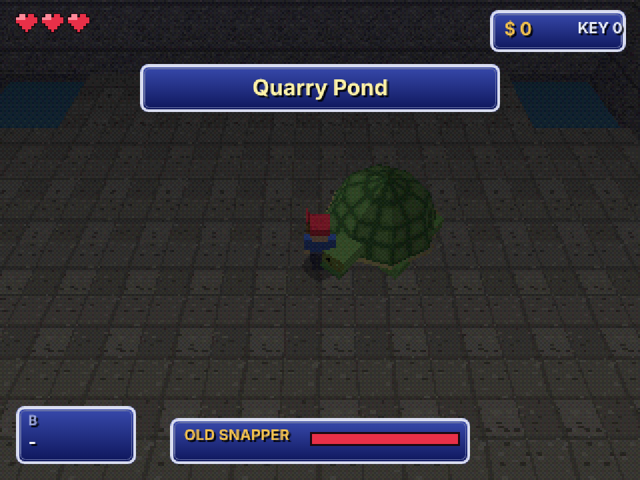
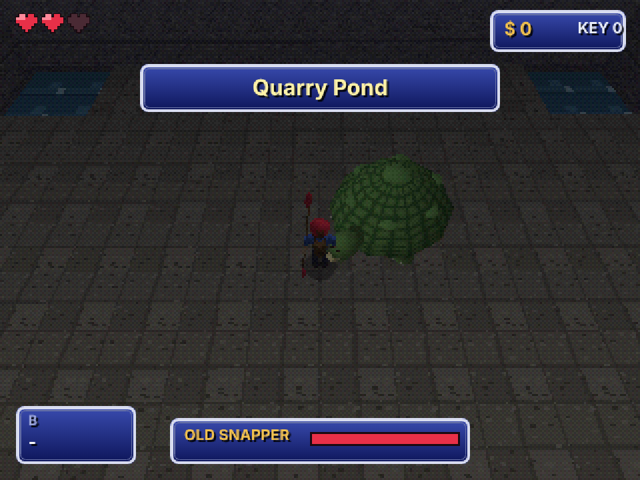
Turn fences to follow their rows, and add detail to people, creatures and props
- Iron fences now run along the line they're on, with rails, pickets and
  finials, so the fences down the sides of Capitol Square line up.
- People dress for their role: glasses and a book for the archivist, a tricorn
  and coat for the reenactor, a pole for the lamplighter, a helmet and life vest
  for the kayaker, an apron, a clipboard, gloves and a trash bag. Everyone gets a
  belt and collar, and Rory a backpack.
- Rounded rats, geese, crabs, bats, ghosts and Old Snapper.
- Leafy and layered trees, ornate gas lamps and slatted benches.

Claude-Session: https://claude.ai/code/session_01Eoe2yTJzU23vy12F62G5WF

diff --git a/js/models.js b/js/models.js
@@ -25,20 +25,49 @@ function humanoid(o){const sk=rgb(o.skin||'#e8b890'),sh=rgb(o.shirt||'#3d63c8'),
     arm.lathe(0,0,0,[[-.32,.085],[-.08,.1],[0,.09]],8,'white',sh,1,1,true);arm.lathe(0,0,0,[[-.62,.06],[-.32,.072]],8,'white',sk);arm.sphere(0,-.67,0,.075,8,4,'white',sk);
     const pd=new Mesh();pd.lathe(0,0,0,[[-.5,.03],[1.35,.03]],6,'wood');pd.sphere(0,1.55,0,.24,8,5,'white',c,1,.5,.2);pd.sphere(0,-.66,0,.15,8,4,'white',c,1,.45,.2);
     for(let i=0;i<pd.pos.length;i+=3){const y=pd.pos[i+1],z=pd.pos[i+2];pd.pos[i+1]=y*.6-z*.8-.67;pd.pos[i+2]=y*.8+z*.6;}arm.add(pd);}
+  const B=P[0].mesh,Hd=P[1].mesh,AL=P[4].mesh,AR=P[5].mesh,dk=c=>[c[0]*.55,c[1]*.55,c[2]*.55],A=o.acc||[];
+  B.lathe(0,0,0,[[1.0,.245],[1.07,.245]],N,'white',o.skirt?dk(pa):[.16,.12,.1],w,.72);B.box(-.05,1.0,.16,.05,1.07,.2,'gold');
+  B.lathe(0,0,0,[[1.58,.15],[1.66,.11]],N,'white',[sh[0]*.85,sh[1]*.85,sh[2]*.85],1,.9);
+  if(A.includes('coat')){const c=rgb(o.coat||'#2a3a6a');B.lathe(0,0,0,[[.45,.32],[.8,.3],[1.05,.27],[1.3,.3],[1.46,.32],[1.56,.28],[1.63,.14]],N,'white',c,w*1.04,.76);
+    for(let i=0;i<4;i++)B.sphere(.0,1.12+i*.12,.235,.025,4,2,'gold');AL.lathe(0,0,0,[[-.4,.1],[0,.11]],8,'white',c,1,1,true);AR.lathe(0,0,0,[[-.4,.1],[0,.11]],8,'white',c,1,1,true);}
+  if(A.includes('vest')){const c=rgb('#f08a30');B.lathe(0,0,0,[[1.05,.3],[1.3,.32],[1.5,.33],[1.58,.24]],N,'white',c,w,.76);B.box(-.04,1.08,.24,.04,1.5,.26,'white',[.2,.2,.24]);}
+  if(A.includes('apron')){B.box(-.2,.62,.2,.2,1.42,.235,'white',[.94,.92,.86]);B.box(-.22,1.0,.18,.22,1.05,.24,'white',[.94,.92,.86]);}
+  if(A.includes('glasses')){const k=[.12,.1,.1];for(const sx of [-1,1]){const x=sx*.1;Hd.box(x-.07,.26,.255,x+.07,.275,.27,'white',k);Hd.box(x-.07,.17,.255,x+.07,.185,.27,'white',k);Hd.box(x-.075,.17,.255,x-.06,.275,.27,'white',k);Hd.box(x+.06,.17,.255,x+.075,.275,.27,'white',k);}Hd.box(-.03,.24,.255,.03,.255,.27,'white',k);}
+  if(A.includes('tricorn')){const c=rgb('#1e1c24');Hd.sphere(0,.4,0,.25,N,4,'white',c,.75,1,1,.5,1);Hd.lathe(0,.42,0,[[0,.42],[.08,.4],[.1,.2]],3,'white',c,1,1,true);Hd.sphere(0,.5,.33,.035,4,2,'gold');}
+  if(A.includes('helmet')){const c=rgb(o.helm||'#f2c14e');Hd.sphere(0,.3,-.01,.3,N,5,'white',c,1.05,1.02,1.08,.48,1);Hd.box(-.2,.33,.25,.2,.37,.34,'white',dk(c));}
+  if(A.includes('book')){const c=rgb('#8a1c2c');AL.box(-.13,-.86,-.04,.13,-.62,.12,{top:'paper',side:'white',south:'white'},c);AL.box(-.12,-.85,-.03,.12,-.63,.11,'paper');}
+  if(A.includes('clipboard')){AL.box(-.12,-.88,.06,.12,-.56,.1,'wood');AL.box(-.1,-.84,.1,.1,-.6,.11,'paper');}
+  if(A.includes('pole')){AR.tube([0,-.67,0],[0,1.9,.35],.03,.025,5,'black');AR.sphere(0,1.95,.36,.06,5,3,'gold');}
+  if(A.includes('gloves')){for(const m of [AL,AR])m.sphere(0,-.67,0,.088,8,4,'white',rgb('#f2c14e'));AR.sphere(0,-.95,.0,.2,8,5,'white',[.18,.2,.26],1.3);AR.box(-.02,-.75,-.02,.02,-.68,.02,'white',[.18,.2,.26]);}
+  if(A.includes('pack')){const c=rgb('#6a4a2a');B.lathe(0,1.12,-.25,[[0,.17],[.12,.2],[.36,.2],[.44,.15]],8,'white',c,1,.6,true);B.box(-.12,1.2,-.38,.12,1.36,-.33,'white',dk(c));for(const sx of [-.14,.14])B.box(sx-.03,1.15,-.22,sx+.03,1.6,.22,'white',dk(c));}
   return P;}
 function enemyModel(t){const P=[];
-  if(t=='rat'){P.push(part(m=>{m.box(-.26,.05,-.42,.26,.42,.36,'white',rgb('#7a7480'));m.box(-.18,.1,.3,.18,.36,.62,{top:'white',side:'white',south:'face'},rgb('#8a8490'));m.box(-.2,.36,.36,-.08,.5,.46,'white',rgb('#e8a0a8'));m.box(.08,.36,.36,.2,.5,.46,'white',rgb('#e8a0a8'));},[0,0,0],'body'),
-    part(m=>m.box(-.04,0,-.9,.04,.06,0,'white',rgb('#d89098')),[0,.15,-.4],'tail'));}
-  else if(t=='bat'){P.push(part(m=>{m.box(-.2,-.2,-.2,.2,.2,.2,{top:'white',side:'white',south:'face'},rgb('#3a3048'));m.box(-.16,.2,-.05,-.04,.36,.05,'white',rgb('#3a3048'));m.box(.04,.2,-.05,.16,.36,.05,'white',rgb('#3a3048'));},[0,0,0],'body'),
-    part(m=>{m.quad([0,0,-.25],[0,0,.25],[-.9,.1,.15],[-.9,.1,-.25],'white',rgb('#4a3a5e'));},[-.18,0,0],'wingL'),part(m=>{m.quad([0,0,.25],[0,0,-.25],[.9,.1,-.25],[.9,.1,.15],'white',rgb('#4a3a5e'));},[.18,0,0],'wingR'));}
-  else if(t=='goose'){P.push(part(m=>{m.box(-.3,.4,-.5,.3,.9,.4,'white',rgb('#f0ece4'));m.box(-.25,.5,-.7,.25,.85,-.5,'white',rgb('#d8d4cc'));m.box(-.06,0,-.05,-.0,.42,.05,'white',rgb('#f08a30'));m.box(.04,0,-.05,.1,.42,.05,'white',rgb('#f08a30'));},[0,0,0],'body'),
-    part(m=>{m.box(-.09,0,-.09,.09,.75,.09,'white',rgb('#2a2a2a'));m.box(-.12,.65,-.12,.12,.9,.16,{top:'white',side:'white',south:'face'},rgb('#2a2a2a'));m.box(-.06,.7,.16,.06,.78,.36,'white',rgb('#f08a30'));m.box(-.1,.4,-.1,.1,.5,.1,'white',rgb('#f4f4f4'));},[0,.8,.3],'neck'));}
-  else if(t=='crab'){const c=rgb('#d84830');P.push(part(m=>{m.box(-.45,.15,-.32,.45,.45,.3,{top:'white',side:'white',south:'face'},c);for(const s of [-1,1])for(let i=0;i<3;i++)m.box(s*.45,0,-.25+i*.22,s*.7,.12,-.17+i*.22,'white',shadeHex('#a83020',1));},[0,0,0],'body'),
-    part(m=>{m.box(-.14,-.1,0,.14,.15,.36,'white',c);m.box(-.16,-.12,.3,.16,.2,.55,'white',shadeHex('#f05a40',1));},[-.42,.3,.25],'clawL'),part(m=>{m.box(-.14,-.1,0,.14,.15,.36,'white',c);m.box(-.16,-.12,.3,.16,.2,.55,'white',shadeHex('#f05a40',1));},[.42,.3,.25],'clawR'));}
-  else if(t=='ghost'){P.push(part(m=>{m.cone(0,0,0,.55,1.4,.35,6,'white',rgb('#c8d8f0'));m.box(-.35,1.3,-.35,.35,1.9,.35,{top:'white',side:'white',south:'face'},rgb('#dce8fa'));},[0,0,0],'body'));}
-  else if(t=='turtle'){P.push(part(m=>{m.cone(0,.4,0,1.5,1.3,1.1,8,'shell');m.cone(0,1.3,0,1.1,1.9,0,8,'shell');m.cone(0,.25,0,1.55,.45,1.55,8,'white',rgb('#c8b878'));
-      for(const [x,z] of [[-1,-.8],[1,-.8],[-1,.8],[1,.8]])m.box(x-.28,0,z-.28,x+.28,.4,z+.28,'white',rgb('#5a8a44'));},[0,0,0],'body'),
-    part(m=>{m.box(-.32,-.25,0,.32,.3,.7,{top:'white',side:'white',south:'face'},rgb('#6e9e52'));m.box(-.3,-.3,.5,.3,-.18,.8,'white',rgb('#3a6a34'));},[0,.6,1.35],'head'));}
+  if(t=='rat'){const c=rgb('#7a7480'),pk=rgb('#e8a0a8');P.push(part(m=>{m.sphere(0,.26,-.05,.26,8,5,'white',c,.85,1,1.55);m.sphere(0,.28,.38,.17,8,4,'white',c,.95,1,1.3);m.sphere(0,.27,.6,.05,5,2,'white',pk);
+      m.quad([-.12,.33,.505],[.12,.33,.505],[.12,.45,.505],[-.12,.45,.505],'eyes');for(const sx of [-1,1]){m.sphere(sx*.13,.44,.32,.08,6,3,'white',pk,1,.4,1);m.tube([sx*.1,.0,.25],[sx*.13,.18,.2],.04,.05,4,'white',pk);m.tube([sx*.12,0,-.3],[sx*.15,.18,-.25],.04,.05,4,'white',pk);}
+      for(const sx of [-1,1])for(let k=0;k<3;k++)m.box(sx*.05+sx*k*.02-.004,.28-k*.015,.6,sx*.05+sx*k*.02+sx*.16,.284-k*.015,.604,'white',[.9,.9,.9]);},[0,0,0],'body'),
+    part(m=>{m.tube([0,0,0],[0,.05,-.45],.035,.025,4,'white',pk);m.tube([0,.05,-.45],[0,.18,-.8],.025,.012,4,'white',pk);},[0,.2,-.42],'tail'));}
+  else if(t=='bat'){const c=rgb('#3a3048'),w=rgb('#4a3a5e');P.push(part(m=>{m.sphere(0,0,0,.2,8,5,'white',c,1.15);m.sphere(0,.24,.03,.15,8,4,'white',c);m.quad([-.11,.18,.16],[.11,.18,.16],[.11,.32,.16],[-.11,.32,.16],'eyes');
+      for(const sx of [-1,1])m.cone(sx*.09,.34,.02,.06,.5,0,4,'white',c);},[0,0,0],'body'),
+    part(m=>{m.quad([0,0,-.15],[0,0,.15],[-.5,.15,.2],[-.5,.15,-.2],'white',w);m.quad([-.5,.15,-.2],[-.5,.15,.2],[-1,.0,.1],[-1,0,-.25],'white',w);m.tube([0,0,.12],[-.5,.15,.2],.02,.02,3,'white',c);m.tube([-.5,.15,.2],[-1,0,.1],.02,.01,3,'white',c);},[-.15,0,0],'wingL'),
+    part(m=>{m.quad([0,0,.15],[0,0,-.15],[.5,.15,-.2],[.5,.15,.2],'white',w);m.quad([.5,.15,.2],[.5,.15,-.2],[1,.0,-.25],[1,0,.1],'white',w);m.tube([0,0,.12],[.5,.15,.2],.02,.02,3,'white',c);m.tube([.5,.15,.2],[1,0,.1],.02,.01,3,'white',c);},[.15,0,0],'wingR'));}
+  else if(t=='goose'){const wc=rgb('#f0ece4'),or=rgb('#f08a30'),bk=rgb('#2a2a2a');P.push(part(m=>{m.sphere(0,.68,-.05,.36,9,6,'white',wc,.72,.95,1.45);m.cone(0,.62,-.55,.18,.9,.02,6,'white',wc);
+      for(const sx of [-1,1]){m.sphere(sx*.3,.72,-.1,.2,7,4,'white',[.86,.84,.78],.55,.5,1.4);m.tube([sx*.1,.0,.0],[sx*.1,.45,-.02],.035,.04,5,'white',or);m.box(sx*.1-.08,0,-.02,sx*.1+.08,.04,.16,'white',or);}},[0,0,0],'body'),
+    part(m=>{m.tube([0,0,0],[0,.75,.12],.1,.08,7,'white',bk);m.sphere(0,.82,.15,.13,8,4,'white',bk,1,1,1.15);m.box(-.1,.66,.14,.1,.74,.22,'white',[.95,.95,.95]);m.cone(0,.8,.28,.06,.8,0,5,'white',or);
+      m.tube([0,.79,.25],[0,.77,.46],.055,.02,5,'white',or);m.quad([-.11,.82,.28],[.11,.82,.28],[.11,.92,.28],[-.11,.92,.28],'eyes');},[0,.72,.32],'neck'));}
+  else if(t=='crab'){const c=rgb('#d84830'),d=rgb('#a83020');P.push(part(m=>{m.sphere(0,.3,0,.42,10,5,'white',c,.55,1.15,.85);m.sphere(0,.25,0,.4,10,3,'white',d,.3,1.15,.85,0,.5);
+      for(const sx of [-1,1]){m.tube([sx*.14,.44,.26],[sx*.16,.6,.3],.025,.025,4,'white',d);m.sphere(sx*.16,.63,.31,.05,5,3,'white',[.1,.1,.1]);
+        for(let i=0;i<3;i++){const z=-.2+i*.18;m.tube([sx*.4,.28,z],[sx*.7,.36,z+.04],.04,.035,4,'white',d);m.tube([sx*.7,.36,z+.04],[sx*.85,0,z+.08],.035,.02,4,'white',d);}}},[0,0,0],'body'),
+    part(m=>{m.tube([0,0,0],[-.05,.05,.3],.06,.07,6,'white',c);m.sphere(-.05,.07,.45,.13,7,4,'white',rgb('#f05a40'),.8,.9,1.3);m.cone(-.05,.07,.55,.07,.12,0,4,'white',d);},[-.4,.3,.2],'clawL'),
+    part(m=>{m.tube([0,0,0],[.05,.05,.3],.06,.07,6,'white',c);m.sphere(.05,.07,.45,.13,7,4,'white',rgb('#f05a40'),.8,.9,1.3);m.cone(.05,.07,.55,.07,.12,0,4,'white',d);},[.4,.3,.2],'clawR'));}
+  else if(t=='ghost'){const c=rgb('#c8d8f0');P.push(part(m=>{m.lathe(0,0,0,[[0,.62],[.15,.5],[.6,.42],[1.1,.4],[1.45,.36],[1.7,.25],[1.82,0]],10,'white',c);
+      for(let i=0;i<6;i++){const a=i/6*6.283;m.cone(Math.cos(a)*.5,0,Math.sin(a)*.5,.14,-.25,0,4,'white',c);}m.quad([-.2,1.25,.38],[.2,1.25,.38],[.2,1.55,.38],[-.2,1.55,.38],'eyes');
+      for(const sx of [-1,1])m.tube([sx*.38,1.2,0],[sx*.62,.9,.15],.09,.06,6,'white',c,true);},[0,0,0],'body'));}
+  else if(t=='turtle'){const sh=rgb('#3a6a34'),sk=rgb('#6e9e52');P.push(part(m=>{m.lathe(0,.35,0,[[0,1.55],[.15,1.6],[.35,1.5],[.7,1.25],[1.05,.85],[1.3,.4],[1.38,0]],10,'shell',null,1,1.1);
+      m.lathe(0,.2,0,[[0,1.45],[.18,1.58]],10,'white',rgb('#c8b878'),1,1.1);for(let i=0;i<6;i++){const a=i/6*6.283;m.sphere(Math.cos(a)*1.0,1.1,Math.sin(a)*1.1,.32,6,3,'white',[.45,.68,.36],.35);}m.sphere(0,1.62,0,.4,6,3,'white',[.45,.68,.36],.4);
+      for(const [x,z] of [[-1.05,-.8],[1.05,-.8],[-1.05,.8],[1.05,.8]]){m.tube([x*.8,.4,z*.8],[x,0,z],.32,.28,7,'white',sk,true);for(let k=-1;k<=1;k++)m.cone(x+k*.12,.05,z+.25*Math.sign(z),.06,.05,0,3,'white',[.9,.9,.8]);}
+      m.cone(0,.4,-1.5,.2,.45,0,6,'white',sk);},[0,0,0],'body'),
+    part(m=>{m.tube([0,0,-.1],[0,.1,.45],.3,.28,8,'white',sk);m.sphere(0,.15,.6,.36,9,5,'white',sk,.85,1,1.2);m.quad([-.26,.22,.98],[.26,.22,.98],[.26,.48,.98],[-.26,.48,.98],'eyes');
+      m.cone(0,.05,.98,.18,0,.0,5,'white',[.9,.85,.6]);m.box(-.25,-.02,.82,.25,.02,1.0,'white',[.3,.4,.25]);},[0,.6,1.35],'head'));}
   return P;}
 function propModel(t){const P=[];
   if(t=='coin')P.push(part(m=>{m.cone(0,-.25,0,.3,.25,.3,8,'gold');m.disc(0,.25,0,.3,8,'gold');m.disc(0,-.25,0,.3,8,'gold',null,true);},[0,0,0]));

diff --git a/js/level.js b/js/level.js
@@ -54,14 +54,21 @@ function buildMesh(lv){
         M.floor(X0,Z0,X1,Z1,ht,'roof');M.box(X0,ht,Z0,X1,ht+.25,Z1,{top:'stone',side:'stone'},null,{bottom:1});break;}
       case'X':case'D':{if(lmAt(lv,x,y))break;const ht=bh(x,y);M.box(X0,0,Z0,X1,ht,Z1,{top:'roof',side:room?'qwall':'stone'},null,{bottom:1},true);break;}
       case'W':{const wh=y==lv.h-1?.8:4;M.box(X0,0,Z0,X1,wh,Z1,{top:wh<1?'qwall':'black',side:'qwall'},null,{bottom:1},wh>1);break;}
-      case'T':{const r=.95+(h%5)*.08,t=h%7==0;M.box(cx-.18,0,cz-.18,cx+.18,1.3,cz+.18,'bark');
-        if(t){M.cone(cx,1,cz,.2,2.2,r*1.2,6,'leaves2',null,h);M.cone(cx,2.2,cz,r*1.2,3.6,.1,6,'leaves2',null,h);}
-        else{M.cone(cx,.9,cz,r*1.15,2.6,.15,6,'leaves',null,h);M.cone(cx,2.1,cz,r*.85,3.9,0,6,'leaves',null,h+1);}break;}
+      case'T':{const r=.95+(h%5)*.08,kind=h%5;
+        if(kind<2){M.tube([cx,0,cz],[cx,1.4,cz],.2,.15,6,'bark');M.cone(cx,.9,cz,r*1.25,2.0,r*.5,7,'leaves',null,h);M.cone(cx,1.7,cz,r*1.05,2.9,r*.3,7,'leaves',null,h+1);M.cone(cx,2.6,cz,r*.75,4.1,0,7,'leaves',null,h+2);}
+        else{M.tube([cx,0,cz],[cx,1.9,cz],.2,.13,6,'bark');M.tube([cx,1.3,cz],[cx+.5,2.2,cz+.2],.09,.05,5,'bark');M.tube([cx,1.4,cz],[cx-.45,2.3,cz-.25],.09,.05,5,'bark');
+          const lc=kind==4?'leaves2':'leaves';M.sphere(cx,2.5,cz,r*.95,8,5,lc,null,.85);M.sphere(cx+.55,2.25,cz+.2,r*.62,7,4,lc,null,.85);M.sphere(cx-.5,2.35,cz-.25,r*.66,7,4,lc,null,.85);M.sphere(cx+.1,3.05,cz-.1,r*.55,7,4,lc,null,.9);}break;}
       case'r':{const s=.55+(h%4)*.12;M.cone(cx,0,cz,s*1.4,s*.9,s*.7,5,'rock',null,h);M.cone(cx,s*.9,cz,s*.7,s*1.2,0,5,'rock',null,h);break;}
       case'R':M.box(X0,0,Z0,X1,1,Z1,{top:'stonewall',side:'stone'},null,{bottom:1});break;
-      case'f':M.box(X0,0,Z0+.9,X1,1.3,Z0+1.1,{top:'black',side:'fence'},null,{bottom:1,top:1});M.box(cx-.07,0,cz-.07,cx+.07,1.5,cz+.07,'black');break;
-      case'l':M.box(cx-.08,0,cz-.08,cx+.08,2.7,cz+.08,'black');M.box(cx-.25,2.6,cz-.25,cx+.25,3.2,cz+.25,{top:'black',side:'glass'});M.cone(cx,3.2,cz,.35,3.5,0,4,'black',null,.785);lv.glows.push([cx,2.9,cz,x,y]);break;
-      case'i':M.box(X0+.2,.45,Z0+.6,X1-.2,.6,Z1-.5,'wood');M.box(X0+.2,.6,Z0+.5,X1-.2,1.2,Z0+.62,'wood');M.box(X0+.3,0,Z0+.7,X0+.45,.45,Z1-.6,'black');M.box(X1-.45,0,Z0+.7,X1-.3,.45,Z1-.6,'black');break;
+      case'f':{const n=(dx,dy)=>src(x+dx,y+dy)=='f',ew=n(1,0)||n(-1,0),ns=n(0,1)||n(0,-1);
+        const run=(ax0,az0,ax1,az1)=>{M.box(Math.min(ax0,ax1)-.04,1.05,Math.min(az0,az1)-.04,Math.max(ax0,ax1)+.04,1.13,Math.max(az0,az1)+.04,'black');M.box(Math.min(ax0,ax1)-.04,.18,Math.min(az0,az1)-.04,Math.max(ax0,ax1)+.04,.25,Math.max(az0,az1)+.04,'black');
+          const L=Math.hypot(ax1-ax0,az1-az0),k=Math.round(L/.25);for(let i=0;i<=k;i++){const t=i/k,px=ax0+(ax1-ax0)*t,pz=az0+(az1-az0)*t;M.box(px-.025,0,pz-.025,px+.025,1.22,pz+.025,'black');M.cone(px,1.22,pz,.05,1.34,0,4,'black');}};
+        if(ew||!ns)run(n(-1,0)?X0:cx,cz,n(1,0)?X1:cx,cz);if(ns)run(cx,n(0,-1)?Z0:cz,cx,n(0,1)?Z1:cz);
+        M.lathe(cx,0,cz,[[0,.09],[1.3,.08],[1.36,.11],[1.42,0]],6,'black');break;}
+      case'l':{M.lathe(cx,0,cz,[[0,.2],[.25,.18],[.35,.1],[.6,.07],[2.5,.06],[2.6,.1]],6,'black');M.box(cx-.22,2.6,cz-.22,cx+.22,2.68,cz+.22,'black');
+        M.lathe(cx,2.68,cz,[[0,.16],[.4,.24],[.55,.26]],4,'glass',null,1,1);M.lathe(cx,3.23,cz,[[0,.3],[.12,.28],[.32,.06],[.42,0]],4,'black');M.sphere(cx,3.68,cz,.05,4,2,'black');lv.glows.push([cx,2.95,cz,x,y]);break;}
+      case'i':{for(let k=0;k<3;k++)M.box(X0+.15,.44,Z0+.55+k*.18,X1-.15,.52,Z0+.69+k*.18,'wood');for(let k=0;k<2;k++)M.box(X0+.15,.75+k*.24,Z0+.42,X1-.15,.9+k*.24,Z0+.5,'wood');
+        for(const ex of [X0+.3,X1-.3]){M.box(ex-.05,0,Z0+.45,ex+.05,1.25,Z0+.55,'black');M.box(ex-.05,0,Z1-.6,ex+.05,.5,Z1-.5,'black');M.box(ex-.05,.42,Z0+.45,ex+.05,.5,Z1-.5,'black');M.box(ex-.05,.68,Z0+.5,ex+.05,.74,Z1-.55,'black');}break;}
       case'a':M.box(cx-.05,0,cz-.05,cx+.05,.8,cz+.05,'black');M.disc(cx,.8,cz,.5,6,'white',[.9,.9,.85]);break;
       case'M':{const fd=faceDir(lv,x,y);M.box(cx-.07,0,cz-.07,cx+.07,1.2,cz+.07,'black');
         if(fd[0])M.box(cx-.06,1,cz-.7,cx+.06,2.1,cz+.7,{top:'black',side:'black',east:'sign',west:'sign'});else M.box(cx-.7,1,cz-.06,cx+.7,2.1,cz+.06,{top:'black',side:'black',south:'sign',north:'sign'});break;}

diff --git a/js/render.js b/js/render.js
@@ -102,10 +102,13 @@ function shadowAt(x,z,s){const sh=getModel('shadow',()=>propModel('shadow'));gl.
   drawModel(sh,M4.mul(M4.tr(x,0,z),M4.sc(s||1)));gl.uniform1f(U.uAlpha,1);gl.depthMask(true);gl.disable(gl.BLEND);}
 function humanPose(walk,moving,extra){const s=moving?Math.sin(walk)*.7:0;return Object.assign({legL:{x:s},legR:{x:-s},armL:{x:-s*.8,z:-.12},armR:{x:s*.8,z:.12},body:{t:[0,moving?Math.abs(Math.cos(walk))*.06:0,0]}},extra||{});}
 function npcModel(n){return getModel('npc:'+n.who+':'+n.tx+','+n.ty,()=>{const h=hash(n.tx,n.ty,n.who.length),skins=['#e8b890','#c08860','#8a5a3a','#f0c8a0'],pants=['#3c3c54','#5a4a3a','#2e3a5e','#4a4a4a'];
-  const capless=h%3!=1,style=['short','long','bun','short','long'][(h>>7)%5];return humanoid({hat:n.hat?n.hat[0]:'#6a4020',shirt:n.shirt?n.shirt[0]:'#58a850',skin:skins[h%4],pants:pants[(h>>3)%4],hair:['#3a2414','#1a1410','#c89048','#7a4a24','#8a8a90'][(h>>5)%5],capless,style,skirt:style!='short'&&(h>>9)%2==0,wide:.92+((h>>11)%4)*.05});});}
+  const ROLE={archivist:['glasses','book'],quiz:['clipboard'],rats:['apron'],henry:['tricorn','coat'],lamps:['pole','coat'],racer:['helmet'],kayaker:['helmet','vest'],cleanup:['gloves']},acc=ROLE[n.chal||n.talk]||[];
+  const capless=(h%3!=1)||acc.includes('tricorn')||acc.includes('helmet')?!acc.includes('tricorn'):false,style=['short','long','bun','short','long'][(h>>7)%5];
+  if(acc.includes('tricorn')||acc.includes('helmet'))return humanoid({hat:'#1e1c24',shirt:n.shirt?n.shirt[0]:'#58a850',skin:skins[h%4],pants:pants[(h>>3)%4],hair:['#3a2414','#1a1410','#c89048','#7a4a24','#8a8a90'][(h>>5)%5],capless:true,style:'short',acc,coat:n.talk=='henry'?'#2a3a6a':'#4a3a2a',helm:n.talk=='racer'?'#e83048':'#f2c14e',wide:1});
+  return humanoid({acc,coat:'#4a3a2a',hat:n.hat?n.hat[0]:'#6a4020',shirt:n.shirt?n.shirt[0]:'#58a850',skin:skins[h%4],pants:pants[(h>>3)%4],hair:['#3a2414','#1a1410','#c89048','#7a4a24','#8a8a90'][(h>>5)%5],capless,style,skirt:style!='short'&&(h>>9)%2==0,wide:.92+((h>>11)%4)*.05});});}
 function drawEntities(){
   // the player
-  const P=getModel('player:'+(st.gold?1:0),()=>humanoid({hat:'#e83048',shirt:'#3d63c8',skin:'#e8b890',pants:'#3c3c54',hair:'#6a3a1e',paddle:true}));
+  const P=getModel('player:'+(st.gold?1:0),()=>humanoid({hat:'#e83048',shirt:'#3d63c8',skin:'#e8b890',pants:'#3c3c54',hair:'#6a3a1e',paddle:true,acc:['pack']}));
   if(mode!='title'&&(!(p.inv>0&&(frame>>2)&1)||deathT>0)){const sw=p.swing>0?(18-p.swing)/18:0,ex={};
     if(p.swing>0)ex.armR={x:-1.5,y:1.6-sw*3.4};if(p.raise>0){ex.armL={x:-2.6};p.raise--;}if(p.hold>0){ex.armL={x:-2.9};ex.armR={x:-2.9};}
     let base=M4.mul(M4.tr(p.x,0,p.z),M4.ry(p.yaw));if(deathT>0)base=M4.mul(base,M4.rx(-Math.min(1.5,(90-deathT)/20)));

diff --git a/js/mesh.js b/js/mesh.js
@@ -60,6 +60,14 @@ class Mesh{
     if(cap){const t=prof[prof.length-1];if(t[1]>.001)this.disc(cx,cy+t[0],cz,t[1]*Math.max(sx,sz),n,cell,[k[0]*.95,k[1]*.95,k[2]*.95]);const b=prof[0];if(b[1]>.001)this.disc(cx,cy+b[0],cz,b[1]*Math.max(sx,sz),n,cell,[k[0]*.5,k[1]*.5,k[2]*.5],true);}}
   sphere(cx,cy,cz,r,n,rings,cell,col,sy,sx,sz,from,to){const pr=[];from=from==null?0:from;to=to==null?1:to;for(let i=0;i<=rings;i++){const t=from+(to-from)*i/rings,a=-Math.PI/2+t*Math.PI;pr.push([Math.sin(a)*r*(sy||1),Math.cos(a)*r]);}
     this.lathe(cx,cy,cz,pr,n,cell,col,sx,sz);}
+  // a round tube from point a to point b (radius r0 at a, r1 at b), with rounded ends if caps
+  tube(a,b,r0,r1,n,cell,col,caps){const t=new Mesh(),L=Math.hypot(b[0]-a[0],b[1]-a[1],b[2]-a[2]);t.lathe(0,0,0,[[0,r0],[L,r1]],n,cell,col);
+    if(caps){t.sphere(0,0,0,r0,n,3,cell,col,1,1,1,0,.5);t.sphere(0,L,0,r1,n,3,cell,col,1,1,1,.5,1);}
+    const d=[(b[0]-a[0])/L,(b[1]-a[1])/L,(b[2]-a[2])/L];let ax=[d[2],0,-d[0]];const al=Math.hypot(ax[0],ax[2]);const ang=Math.acos(Math.max(-1,Math.min(1,d[1])));
+    if(al<1e-6)ax=[1,0,0];else ax=[ax[0]/al,0,ax[2]/al];const c=Math.cos(ang),s=Math.sin(ang),[kx,ky,kz]=ax;
+    for(let i=0;i<t.pos.length;i+=3){const x=t.pos[i],y=t.pos[i+1],z=t.pos[i+2],dot=kx*x+ky*y+kz*z,cx=ky*z-kz*y,cy=kz*x-kx*z,cz=kx*y-ky*x;
+      t.pos[i]=x*c+cx*s+kx*dot*(1-c)+a[0];t.pos[i+1]=y*c+cy*s+ky*dot*(1-c)+a[1];t.pos[i+2]=z*c+cz*s+kz*dot*(1-c)+a[2];}
+    return this.add(t);}
   add(m){this.pos.push(...m.pos);this.uv.push(...m.uv);this.col.push(...m.col);return this;}
 }
 const hash=(a,b,c)=>{let h=(a*374761393+b*668265263+(c||0)*2147483647)|0;h=(h^(h>>>13))*1274126177|0;return((h^(h>>>16))>>>0);};

diff --git a/sw.js b/sw.js
@@ -1,5 +1,5 @@
 // Offline cache. Bump VERSION when files change.
-const VERSION='rcq3d-v2';
+const VERSION='rcq3d-v3';
 const FILES=['./','index.html','js/data.js','js/mesh.js','js/tex.js','js/level.js','js/models.js','js/audio.js','js/game.js','js/render.js','js/hud.js','js/input.js','js/main.js','manifest.webmanifest','icon-192.png','icon-512.png','icon-180.png'];
 self.addEventListener('install',e=>{e.waitUntil(caches.open(VERSION).then(c=>c.addAll(FILES)));self.skipWaiting();});
 self.addEventListener('activate',e=>{e.waitUntil(caches.keys().then(ks=>Promise.all(ks.filter(k=>k!==VERSION).map(k=>caches.delete(k)))));self.clients.claim();});

diff --git a/README.md b/README.md
@@ -11,6 +11,7 @@ This first build is a playable slice: four neighborhoods, the quarry dungeon and
 | ![Title](screenshots/title.png) | ![Shockoe Bottom](screenshots/shockoe.png) |
 | ![Church Hill](screenshots/church-hill.png) | ![Church Hill at night](screenshots/night.png) |
 | ![Old Snapper](screenshots/old-snapper.png) | ![The map](screenshots/map.png) |
+| ![The reenactor and Rory](screenshots/people.png) | ![Rats, geese, crabs and bats](screenshots/creatures.png) |
 
 ## What's in it
 
@@ -18,7 +19,7 @@ This first build is a playable slice: four neighborhoods, the quarry dungeon and
 - **Landmarks:** the Capitol's portico, the old bell tower, Main Street Station's clock tower, the 17th Street Market shed, St. John's Church and the power plant ruins on Belle Isle.
 - **The Belle Isle Quarry:** four rooms with a small key, a locked door, blasting powder, a cracked wall and Old Snapper, a giant turtle you have to trick into charging a wall.
 - **A third-person camera** that trails behind you like late-90s 3D adventures. Swing it with a drag, the right stick or Q and E. In the quarry it holds a fixed angle over each room.
-- **People and stories:** everyone from the 2D slice is here with their lines, and every historical marker goes into your journal.
+- **People and stories:** everyone from the 2D slice is here with their lines, and every historical marker goes into your journal. People are rounded low-poly figures with faces, hair and hats, and dress for their part: the archivist's glasses and book, the reenactor's tricorn and coat, the lamplighter's pole, the kayaker's helmet and life vest.
 - **Four neighborhood challenges:** light Church Hill's gas lamps, clear the market rats, clean up Belle Isle and take the history quiz.
 - **Day and night:** a full day passes about every ten minutes. At night the fog closes in, the gas lamps glow, your lantern lights the way and ghosts come out.
 - **The PS1 look, done by hand:** everything renders at 320x240, vertices snap to that pixel grid so they wobble, textures warp without perspective correction, colors are dithered down to 15 bits, and fog hides the short draw distance. There's no 3D library: it's plain WebGL 2.
